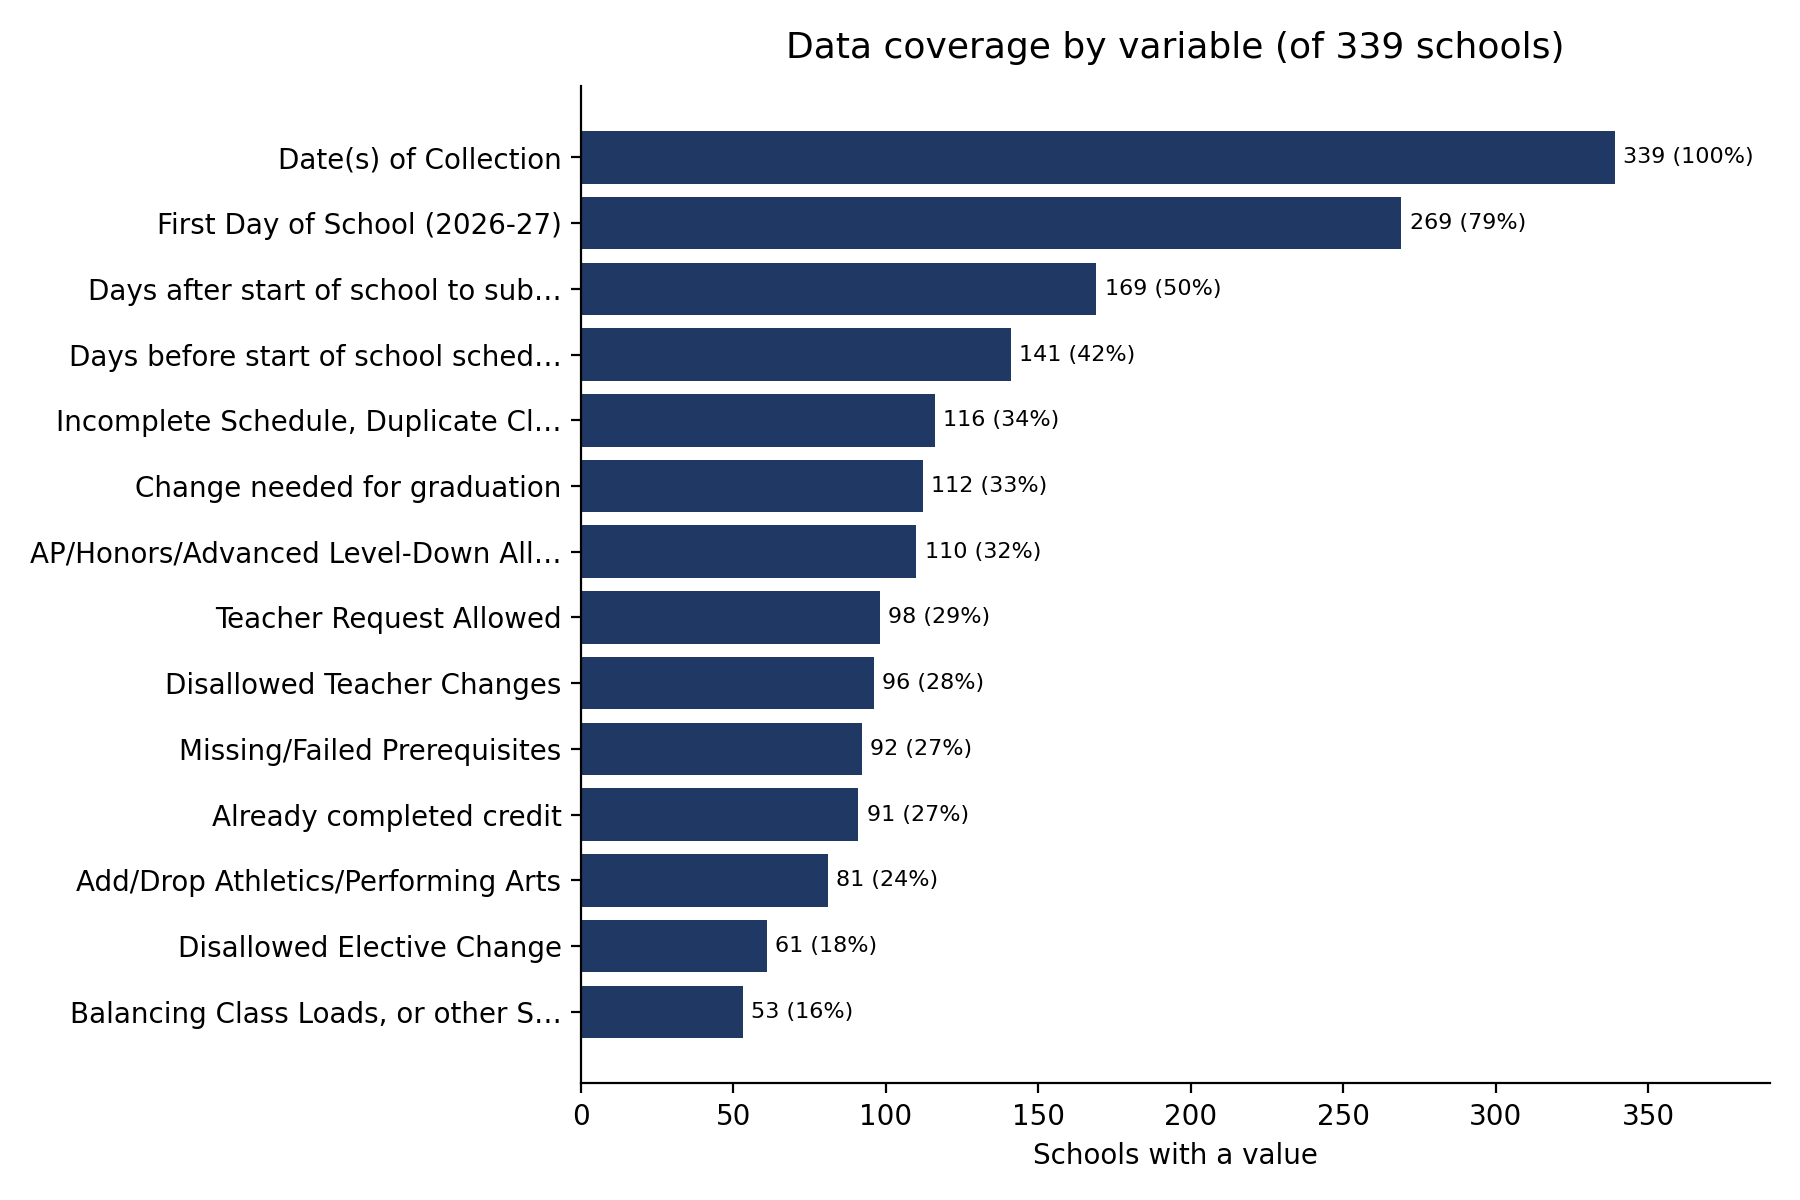
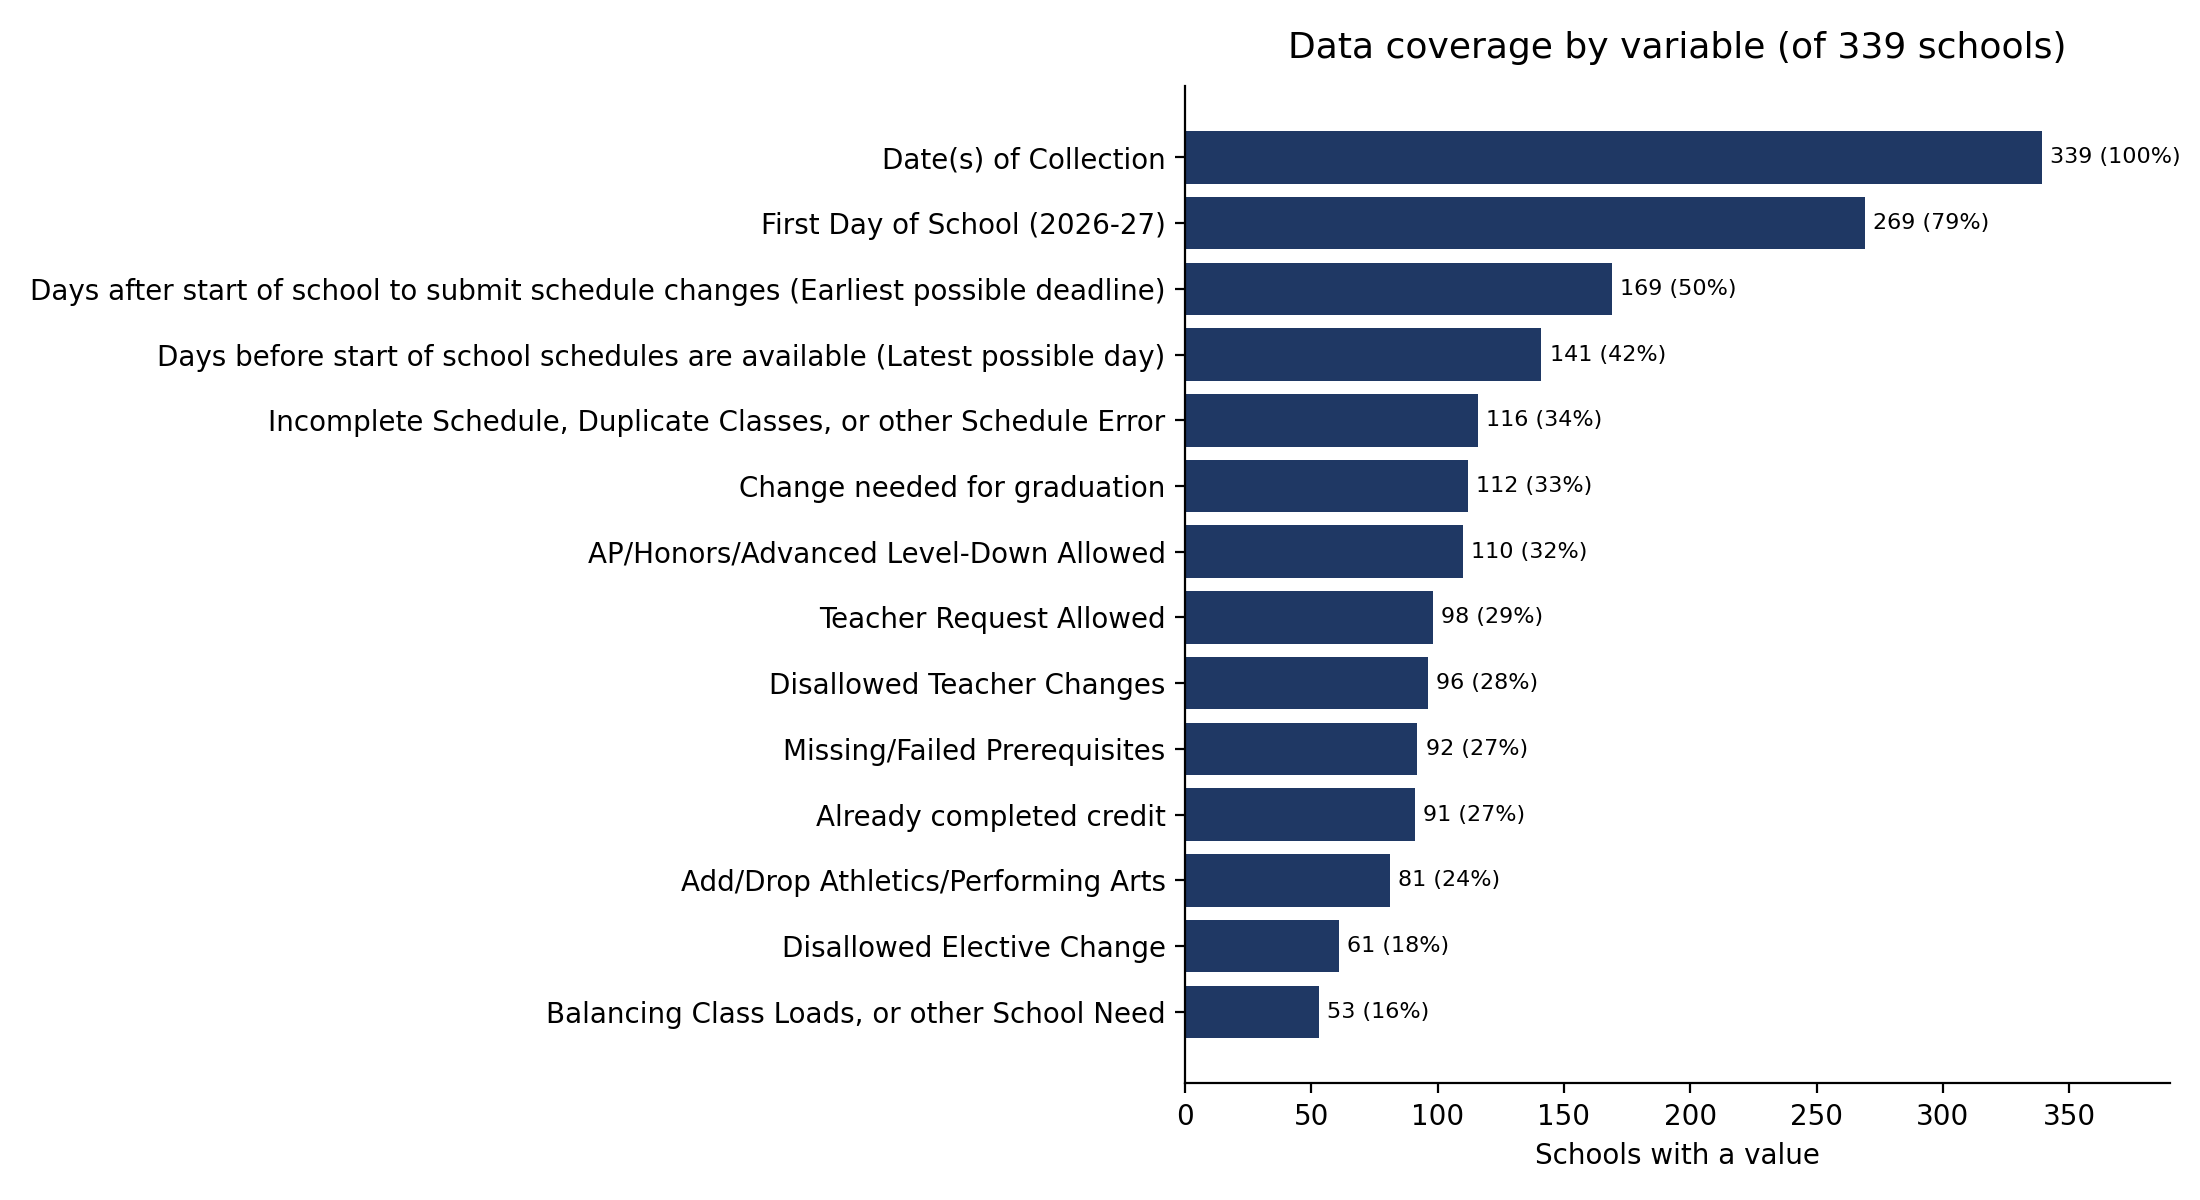
updated figures for readability

diff --git a/make_charts.py b/make_charts.py
@@ -81,8 +81,8 @@ plt.tight_layout(); plt.savefig("fig_teacher_request.png", dpi=200); plt.close()
 # ============ 3. COVERAGE ============
 fill = {c: sum(1 for r in rows if v(r,c) and v(r,c).lower()!="not stated") for c in varcols}
 top = sorted(fill.items(), key=lambda x: x[1], reverse=True)[:14]
-names = [short(c, 34) for c,_ in top]; tv = [x for _,x in top]
-fig, ax = plt.subplots(figsize=(9,6))
+names = [c.replace("Reason - ","").replace("Disallowed Reason - ","(disallow) ") for c,_ in top]; tv = [x for _,x in top]
+fig, ax = plt.subplots(figsize=(11,6))
 bars = ax.barh(names[::-1], tv[::-1], color="#1f3864")
 ax.bar_label(bars, labels=[f"{x} ({round(100*x/N)}%)" for x in tv[::-1]], padding=3, fontsize=8)
 ax.set_xlim(0, N*1.15)
@@ -92,10 +92,10 @@ plt.tight_layout(); plt.savefig("fig_coverage.png", dpi=200); plt.close()
 
 # ============ 4. DISALLOWED REASONS ============
 dis = [c for c in rows[0].keys() if c.startswith("Disallowed Reason")]
-freq = {short(c,30): sum(1 for r in rows if v(r,c).upper()=="Y") for c in dis}
+freq = {c.replace("Disallowed Reason - ","").replace("Dropping an application course after a student has been accepted and enrolled","Dropping an accepted application course"): sum(1 for r in rows if v(r,c).upper()=="Y") for c in dis}
 freq = {k:x for k,x in sorted(freq.items(), key=lambda i:i[1], reverse=True) if x>0}
 if freq:
-    fig, ax = plt.subplots(figsize=(8.5,5))
+    fig, ax = plt.subplots(figsize=(10,5))
     bars = ax.barh(list(freq.keys())[::-1], list(freq.values())[::-1], color="#c62828")
     ax.bar_label(bars, padding=3, fontsize=9)
     ax.set_xlim(0, max(freq.values())*1.12)
